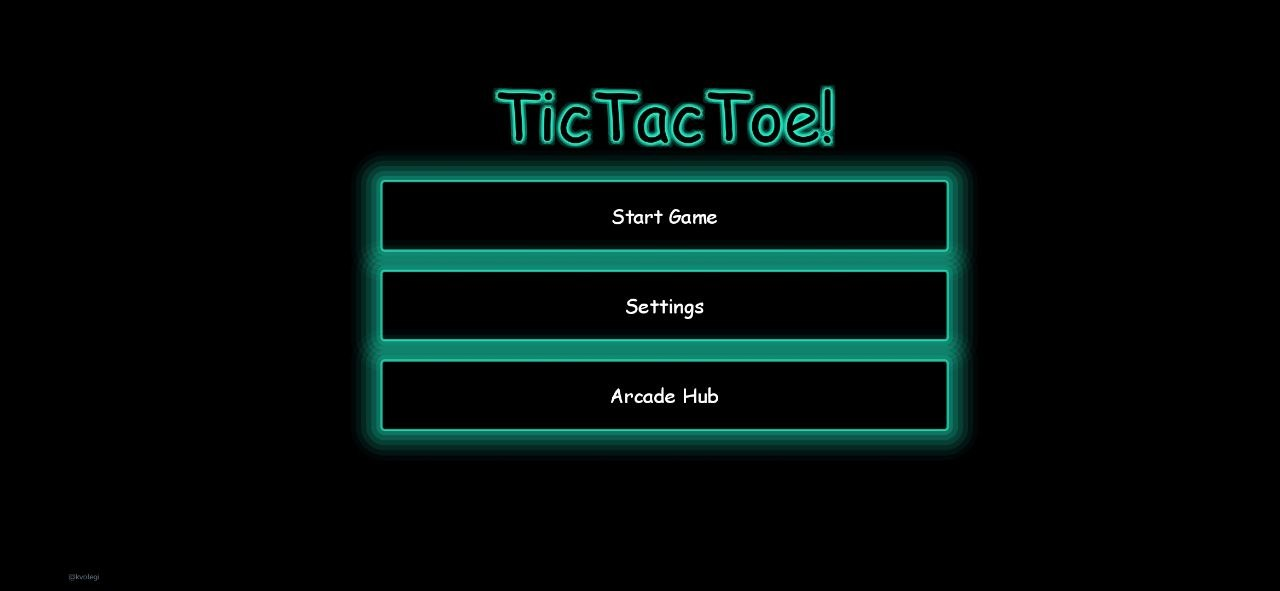
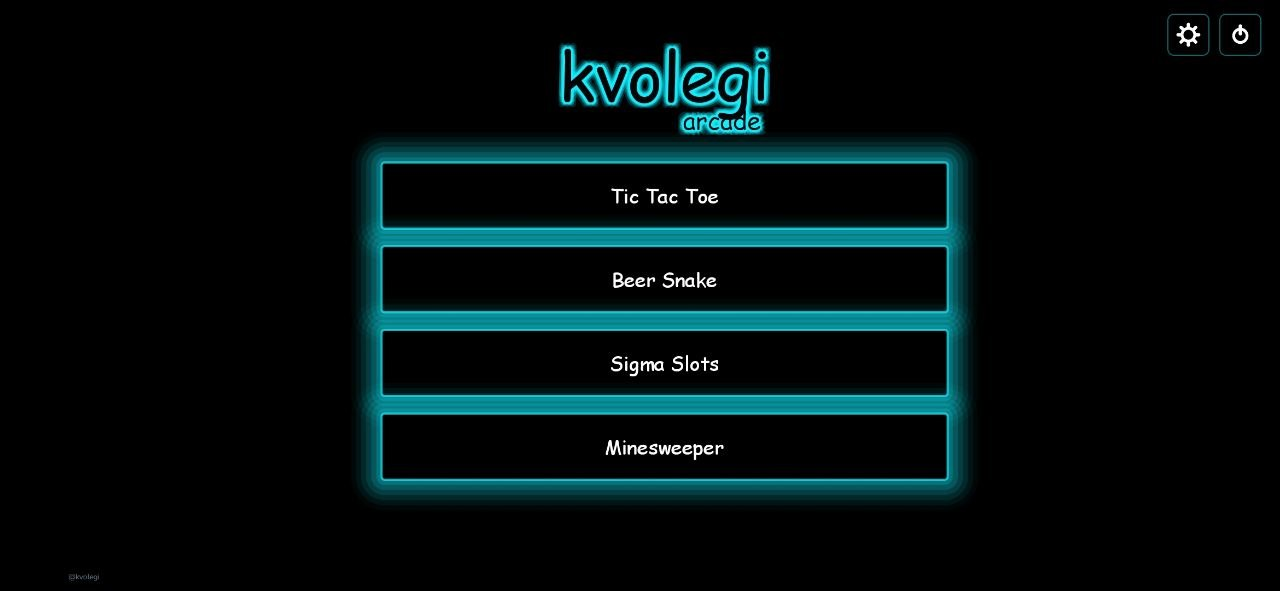
docs: add web demo portal link, replace mobile hub and board screenshots, and enforce private portfolio license

Changed region(s): [[0.2812, 0.0609, 0.7812, 0.8528], [0.9062, 0.0305, 1.0, 0.0914]]

diff --git a/README.md b/README.md
@@ -19,6 +19,15 @@
   <img src="https://img.shields.io/badge/Tests-75%20Passed-brightgreen?style=for-the-badge" alt="Tests"/>
 </p>
 
+<p align="center">
+  <a href="https://kvolegi.github.io/kvolegi-arcade/">
+    <img src="https://img.shields.io/badge/🎮%20Web%20Portal-Play%20Online%20in%20Browser-00f3ff?style=for-the-badge&logo=googlechrome&logoColor=black" alt="Play Online in Browser" />
+  </a>
+  <a href="https://github.com/kvolegi/kvolegi-arcade/releases/tag/v2.1.0">
+    <img src="https://img.shields.io/badge/Release-v2.1.0-blue?style=for-the-badge&logo=github&logoColor=white" alt="Latest Release" />
+  </a>
+</p>
+
 ---
 
 ## About the Project
@@ -39,9 +48,9 @@ The suite bundles four complete arcade games with a shared Cyberpunk / Neon visu
 
 | Desktop Edition (macOS / Linux / Windows) | Mobile Edition (Android APK) |
 | :---: | :---: |
-| ![PC Arcade Hub](docs/screenshots/pc_arcade_hub.png) <br> *Main Arcade Hub (Red JavaFX Bloom)* | ![Mobile Arcade Hub](docs/screenshots/mobile_arcade_hub.png) <br> *Main Menu (Cyan Native Android Glow)* |
-| ![PC Tic Tac Toe](docs/screenshots/pc_ttt_board.png) <br> *Adaptive Grid (5x5 → 7x7 → 10x10, Green Bloom)* | ![Mobile Tic Tac Toe](docs/screenshots/mobile_ttt_board.png) <br> *Infinite Memory Board (Purple Neon, Victory State)* |
-| ![PC Sigma Slots](docs/screenshots/pc_slots_game.png) <br> *20-Line Vegas Slots (JavaFX)* | ![Mobile Sigma Slots](docs/screenshots/mobile_slots_game.png) <br> *20-Line Vegas Slots (Synchronized Rainbow Controls)* |
+| ![PC Arcade Hub](docs/screenshots/pc_arcade_hub.png) <br> *Main Arcade Hub (Red JavaFX Bloom)* | ![Mobile Arcade Hub](docs/screenshots/mobile_arcade_hub.png) <br> *Main Arcade Hub (Teal Native Android Glow)* |
+| ![PC Tic Tac Toe](docs/screenshots/pc_ttt_board.png) <br> *Adaptive Grid (5x5 → 7x7 → 10x10, Green Bloom)* | ![Mobile Tic Tac Toe](docs/screenshots/mobile_ttt_board.png) <br> *Active Gameplay Grid (Crimson Neon, Zero-Overlay Board)* |
+| ![PC Sigma Slots](docs/screenshots/pc_slots_game.png) <br> *20-Line Vegas Slots (JavaFX)* | ![Mobile Sigma Slots](docs/screenshots/mobile_slots_game.png) <br> *20-Line Vegas Slots (Native Android Layout)* |
 | ![PC Pay Table](docs/screenshots/pc_slots_paytable.png) <br> *High-Res Vegas Pay Table Modal (JavaFX)* | ![Mobile Audio Settings](docs/screenshots/mobile_settings.png) <br> *Dynamic Audio & Sound Settings (Android)* |
 | ![PC Beer Snake](docs/screenshots/pc_snake_game.png) <br> *Beer Snake Game Loop (JavaFX)* | ![Mobile Beer Snake](docs/screenshots/mobile_snake_game.png) <br> *Beer Snake Level 2 (Blue Neon & Pre-Game Setup)* |
 | ![PC Minesweeper](docs/screenshots/pc_mines_game.png) <br> *Bobr Minesweeper with Sonar & Flags (JavaFX)* | ![Mobile Minesweeper](docs/screenshots/mobile_mines_game.png) <br> *Bobr Minesweeper (Amber Neon & Pre-Game Setup)* |
@@ -229,11 +238,9 @@ mvn test
 
 ---
 
-## ⚖ License & Copyright
+## ⚖ License & Private Archive Terms
 
-```
-kvolegi arcade — Multiplatform Retro-Neon Arcade Suite
-Copyright (c) 2023-2024 kvolegi (@kvolegi). All Rights Reserved.
-```
+Strictly private personal portfolio archive. No permission is granted to copy, run, distribute, modify, or commercially exploit this software. Published solely for technical assessment, code review, and portfolio evaluation.
 
-Personal portfolio project. Provided for evaluation, educational demonstration, and code review.
+Copyright (c) 2023–2026 **kvolegi** (@kvolegi). All Rights Reserved.  
+For full legal terms, see [LICENSE](LICENSE).
